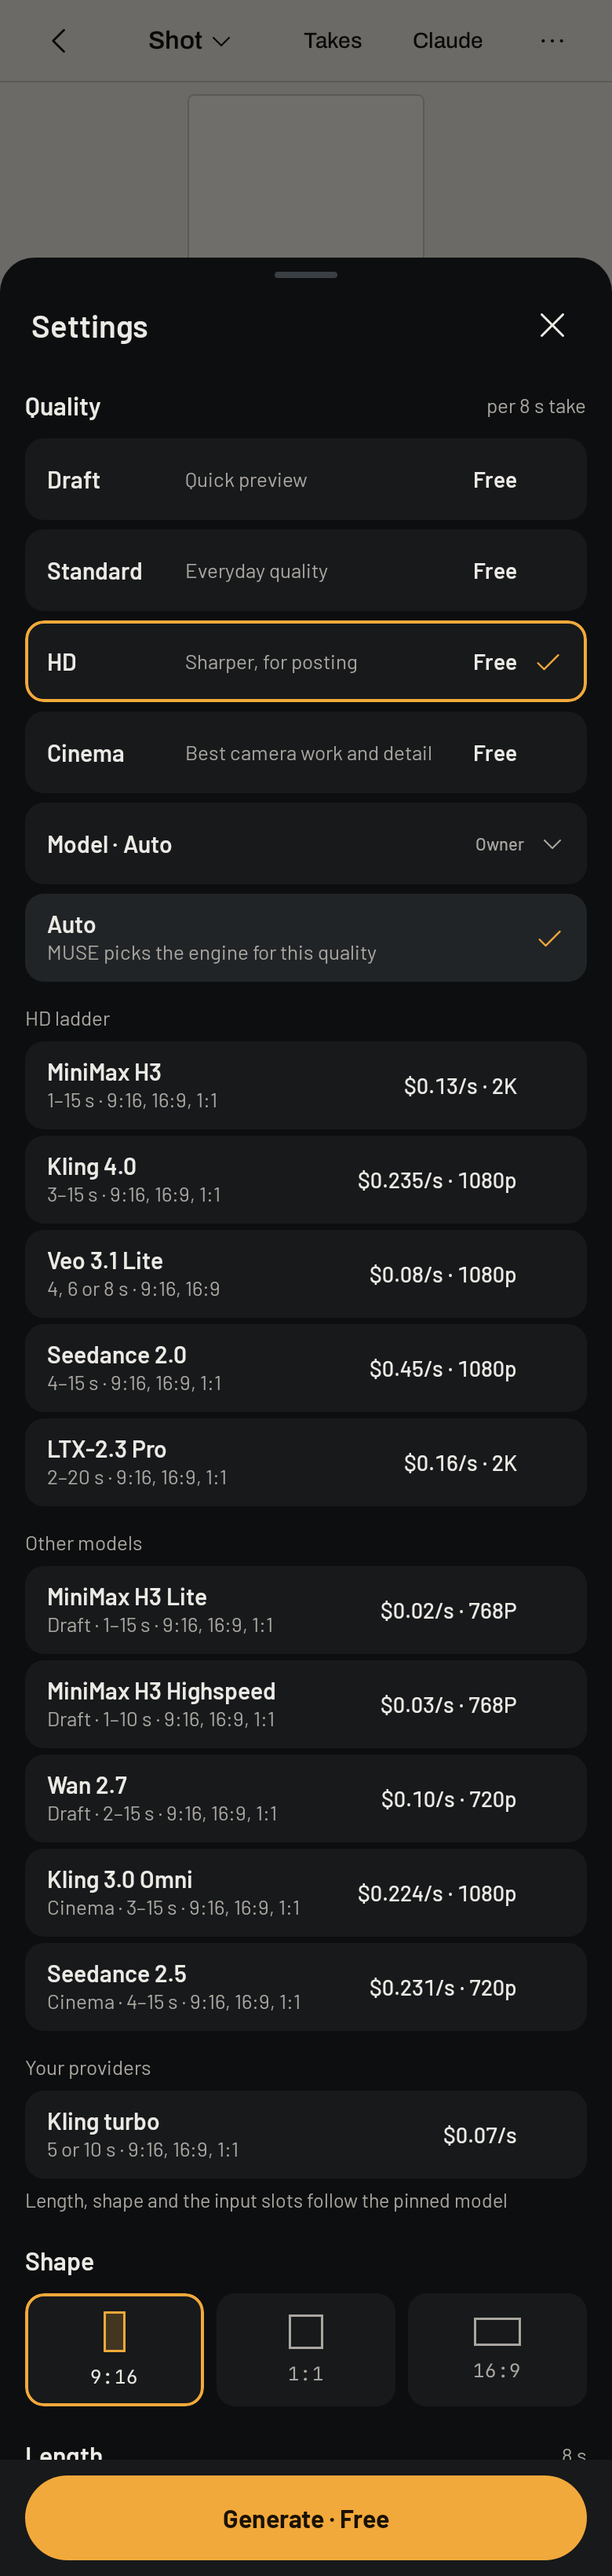
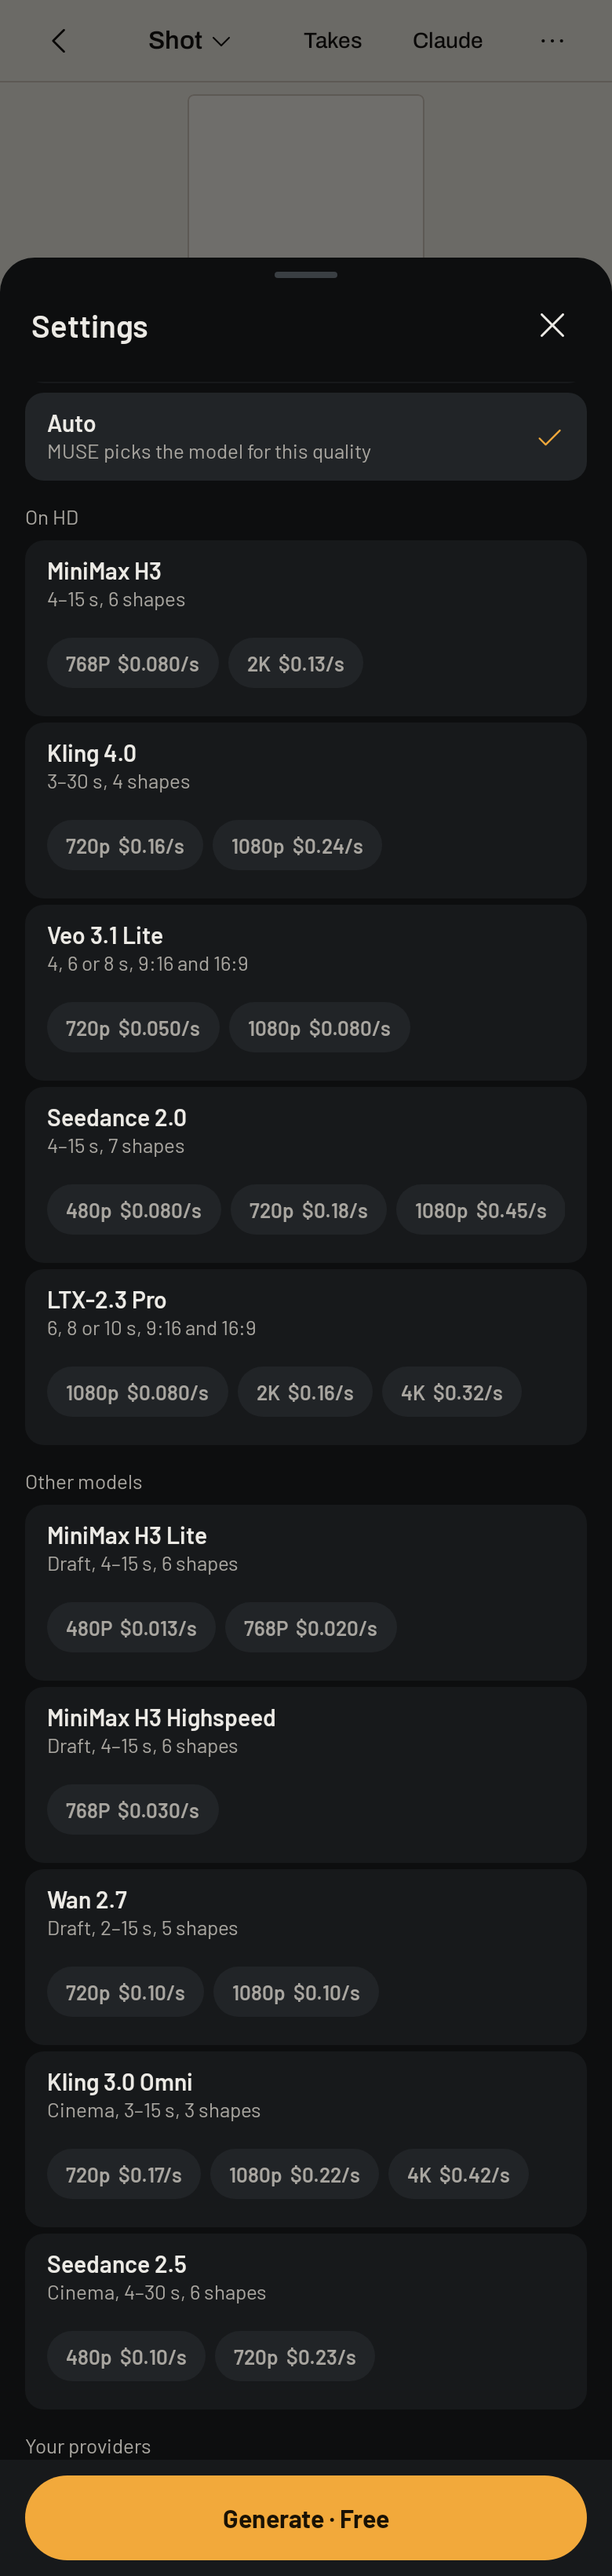
Android model picker: per-second prices as the Mac (3 decimals below $0.10, else cents); screenshots re-recorded
Claude-Session: https://claude.ai/code/session_01Py2rxngd8dggBVUEdbnrKE

diff --git a/android/app/src/test/kotlin/studio/muse/app/ModelPickerTest.kt b/android/app/src/test/kotlin/studio/muse/app/ModelPickerTest.kt
@@ -125,10 +125,11 @@ class ModelPickerLogicTest {
 
     @Test fun rates() {
         assertEquals("$0.050/s", ModelPicker.perSec(0.05))
-        assertEquals("$0.157/s", ModelPicker.perSec(0.157))
+        assertEquals("$0.16/s", ModelPicker.perSec(0.157))
+        assertEquals("$0.065/s", ModelPicker.perSec(0.065))
         assertEquals("$0.40", ModelPicker.money(0.4))
         val kling = ModelPicker.groups(owner, "hd").ladder.first { it.id == "kling-v4" }
-        assertEquals(listOf("720p  $0.157/s", "1080p  $0.235/s"), kling.chips.map { it.second })
+        assertEquals(listOf("720p  $0.16/s", "1080p  $0.24/s"), kling.chips.map { it.second })
         assertEquals("Model", ComposerDraft().modelPill(owner))
     }
 
@@ -181,7 +182,7 @@ class ModelPickerScreenshotTest(private val theme: String, private val state: St
         idle()
         // Let the clock run for the interactions (scrolling waits for idle).
         compose.mainClock.autoAdvance = true
-        if (state == "auto") { compose.onAllNodesWithText("Model · Auto", useUnmergedTree = true).onFirst().performClick(); compose.waitForIdle() }
+        if (state == "auto") { compose.onAllNodesWithText("Only you see models", useUnmergedTree = true).onFirst().performClick(); compose.waitForIdle() }
         assertEquals(1, compose.onAllNodesWithTag("model_picker", useUnmergedTree = true).fetchSemanticsNodes().size)
         // Scroll the sheet so the list's end ("Your providers") is in view.
         compose.onAllNodesWithText("Your providers", useUnmergedTree = true).onFirst().performScrollTo()

diff --git a/android/app/src/main/kotlin/studio/muse/app/ui/screens/suite/composer/ModelPicker.kt b/android/app/src/main/kotlin/studio/muse/app/ui/screens/suite/composer/ModelPicker.kt
@@ -109,8 +109,8 @@ data class PickerGroups(val ladder: List<PickerEngine>, val others: List<PickerE
 }
 
 object ModelPicker {
-    /** Per second, always 3 decimals (shared with the Mac): "$0.050/s", "$0.157/s". */
-    fun perSec(v: Double): String = "$" + String.format(java.util.Locale.US, "%.3f", v) + "/s"
+    /** Per second, as the Mac: 3 decimals below $0.10 ("$0.050/s", "$0.065/s"), cents from $0.10 ("$0.16/s"). */
+    fun perSec(v: Double): String = "$" + String.format(java.util.Locale.US, if (v < 0.1) "%.3f" else "%.2f", v) + "/s"
 
     /** A photo or a run, in cents: "$0.05", "$0.40". */
     fun money(v: Double): String = "$" + String.format(java.util.Locale.US, "%.2f", v)
